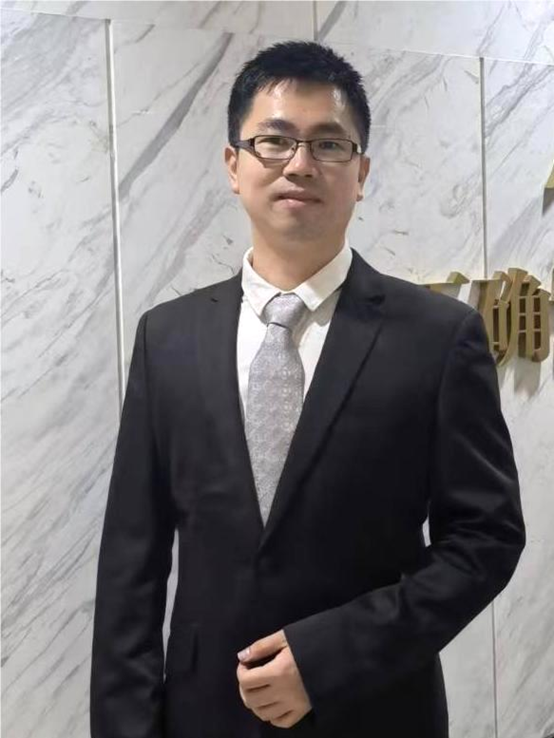
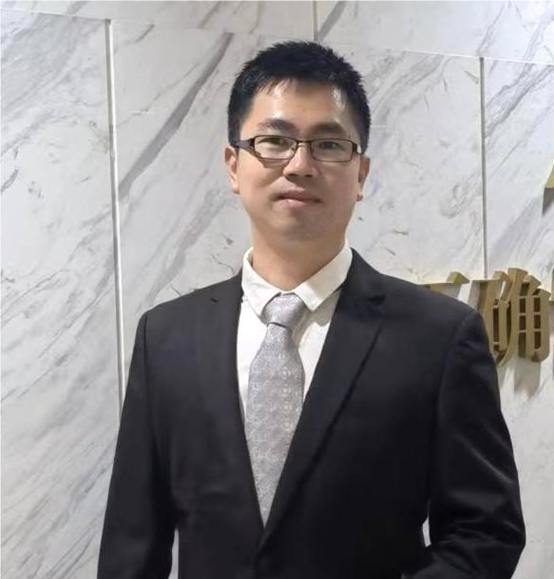
feat: team图片和文字布局调整

diff --git a/src/pages/Team.jsx b/src/pages/Team.jsx
@@ -31,7 +31,7 @@ const Item = ({
       </div>
       <div className="team-item-info">
         <h2 className="text-center">{name}</h2>
-        <div>
+        <div className="team-item-organization">
           <div className="text-center">{organization}</div>
           {organizationb && <div className="text-center">{organizationb}</div>}
         </div>
@@ -154,7 +154,7 @@ const items = [
   },
   {
     image: '/img/group/gjj.jpg',
-    imgWidth: '110%',
+    imgWidth: '100%',
     name: 'Jinjin Gu',
     organization: 'University of Sydney',
     organizationb: 'Shanghai AI Laboratory',
@@ -223,6 +223,7 @@ const advisor = [
   {
     image: '/img/group/qy.jpg',
     name: 'Yu Qiao',
+    imgWidth: '100%',
     organization: 'Shanghai AI Laboratory',
     githubLink: '',
     homepageLink:
@@ -230,6 +231,7 @@ const advisor = [
   },
   {
     image: '/img/group/oywl.jpg',
+    // imgWidth: '110%',
     name: 'Wanli Ouyang',
     organization: 'Shanghai AI Laboratory',
     twitter: 'https://twitter.com/ouyang_wanli',
@@ -260,7 +262,7 @@ export default function Homepage() {
         </div>
       </section>
 
-      <section className="no-underline-links my-2 mx-auto flex w-full max-w-5xl flex-col gap-10 p-4 py-0 md:flex-row md:gap-0">
+      <section className="no-underline-links p- my-2 mx-auto flex w-full max-w-5xl flex-col gap-10 py-0 md:flex-row md:gap-0">
         <div className="flex-1">
           <div className="mb-10 flex items-center justify-between">
             <h2 className="m-0">Advisor Committee</h2>

diff --git a/src/css/custom.css b/src/css/custom.css
@@ -1226,7 +1226,7 @@ html[data-theme='dark'] .video_sidebar_header > div > a::before {
 .team-item-list {
   display: grid;
   grid-template-columns: repeat(4, 1fr); /* 创建四列 */
-  gap: 50px; /* 每个项目之间的间隔 */
+  gap: 10px; /* 每个项目之间的间隔 */
 }
 
 .team-item {
@@ -1236,12 +1236,8 @@ html[data-theme='dark'] .video_sidebar_header > div > a::before {
 
 .team-item-image {
   width: 100%;
-  height: 50%;
-  /* display: block; */
-  /* object-fit: cover;
-  background-size: cover;
-  background-position: center; */
-  overflow: hidden; /* 确保图片不会溢出容器 */
+  height: 55%;
+  overflow: hidden;
   display: flex;
   justify-content: center;
   align-items: center;
@@ -1252,7 +1248,10 @@ html[data-theme='dark'] .video_sidebar_header > div > a::before {
 }
 
 .team-item-info {
-  padding: 8px;
+  padding: 8px 0px;
+}
+.team-item-organization {
+  font-size: 14px;
 }
 
 .team-item-links a {
